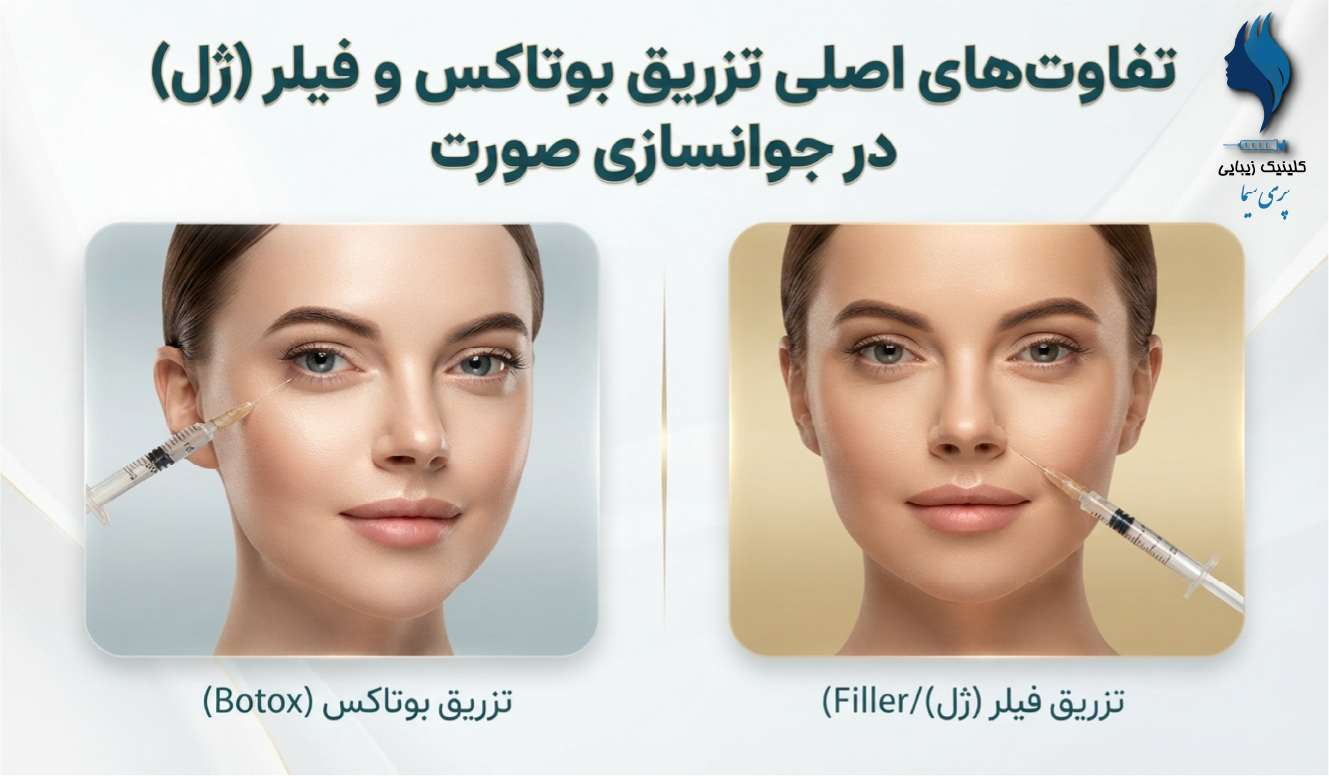
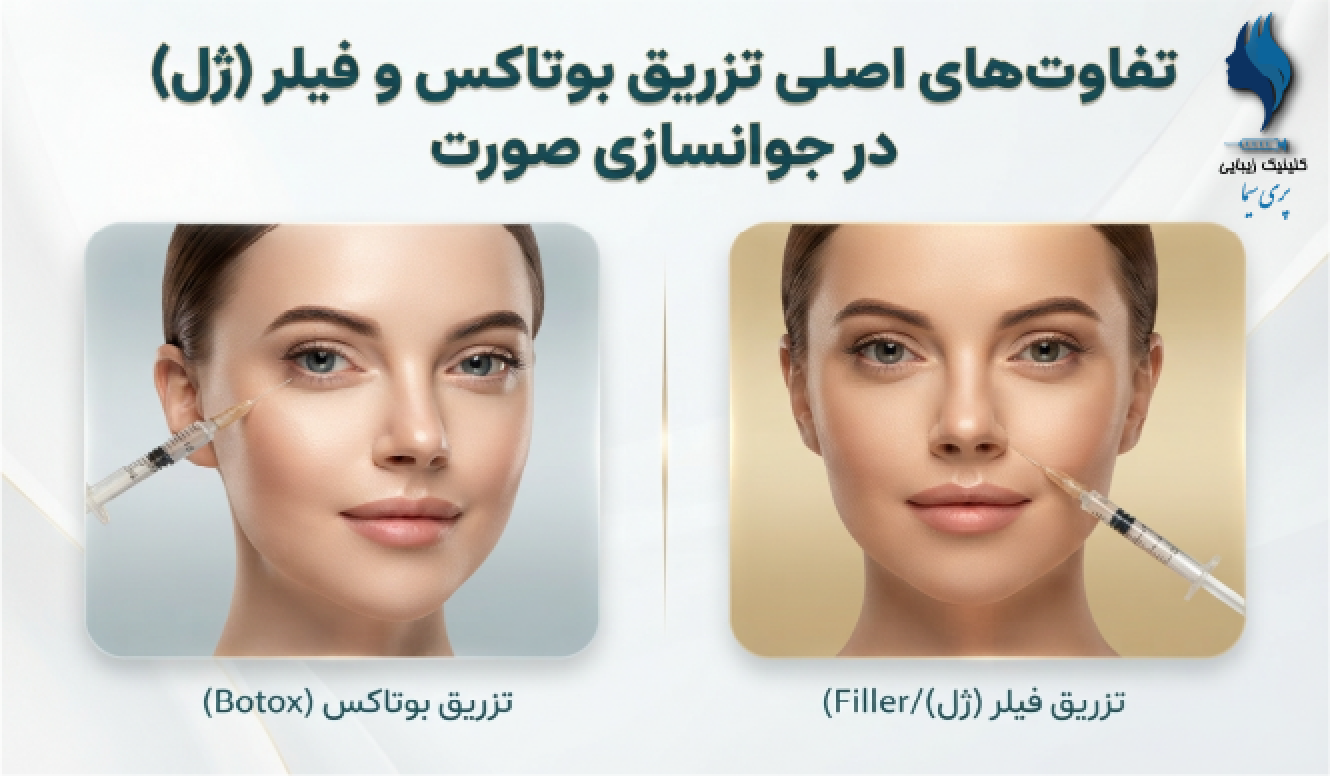
Fix 404 image errors by updating article image URLs

diff --git a/src/components/ArticlesSection.tsx b/src/components/ArticlesSection.tsx
@@ -77,6 +77,10 @@ export const ArticlesSection: React.FC = () => {
                     alt={article.title}
                     className="w-full h-full object-cover object-center transition-transform duration-500 group-hover:scale-105"
                     loading="lazy"
+                    onError={(e) => {
+                      // فالبک تصویر در صورت بروز خطای لود
+                      (e.target as HTMLImageElement).src = 'https://images.unsplash.com/photo-1576091160399-112ba8d25d1d?w=800&auto=format&fit=crop&q=60';
+                    }}
                   />
                   <span className="absolute top-3 right-3 bg-[#0284C7] text-white text-[10px] font-bold px-2.5 py-1 rounded-full shadow-sm z-10">
                     {article.category}
